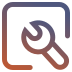
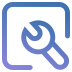
refactor(index): refactor nng index page

diff --git a/_includes/header-nng.html b/_includes/header-nng.html
@@ -16,19 +16,23 @@
                                 <div class="navbar-start"></div>
                                 <div class="navbar-end">
                                         <div class="navbar-item">
-                                                <a href="/man/">Documentation</a>
+                                                <a href="/man/">
+                                                        <i class="iconfont icon-doc"></i>
+                                                </a>
                                         </div>
                                         <div class="navbar-item">
-                                                <a href="https://discord.gg/Xnac6b9">Discord</a>
+                                                <a href="https://discord.gg/Xnac6b9">
+                                                        <i class="iconfont icon-discord"></i>
+                                                </a>
                                         </div>
                                         <div class="navbar-item is-hidden-desktop">
                                                 <a href="https://github.com/nanomsg/nng">
-                                                        github
+                                                        Github
                                                 </a>
                                         </div>
                                         <div class="navbar-item is-hidden-touch">
-                                                <a href="https://github.com/nanomsg/nng" class="btn-github">
-                                                        <i class="iconfont icon-github"></i> Star
+                                                <a href="https://github.com/nanomsg/nng">
+                                                        <i class="iconfont icon-github"></i>
                                                 </a>
                                         </div>
                                         <div class="navbar-item is-hidden-touch">

diff --git a/assets/css/index.css b/assets/css/index.css
@@ -12,11 +12,11 @@ a {
 }
 
 a:hover {
-  color: #BA5836;
+  color: #112D4E;
 }
 
 a.is-brown {
-  color: #BA5836;
+  color: #3F72AF;
 }
 
 .button {
@@ -37,7 +37,7 @@ a.is-brown {
   position: fixed;
   z-index: 40;
   width: 100%;
-  background: linear-gradient(135deg, #3A3654 0%, #515C85 100%);
+  background: linear-gradient(135deg, #112D4E 0%, #171D41 100%);
 }
 
 i.iconfont {
@@ -46,7 +46,7 @@ i.iconfont {
 }
 
 .navbar-burger {
-  color: #BA5836;
+  color: #3F72AF
 }
 
 /* navbar link  */
@@ -59,21 +59,13 @@ i.iconfont {
 }
 
 .nn-header-inner a:hover {
-  color: #BA5836;
-}
-
-.nn-header a.btn-github {
-  padding: 5px 28px;
-  display: inline-block;
-  border-radius: 4px;
-  border: 1px solid #DEDEDE;
-  color: #fff;
+  color: #3F72AF
 }
 
 .nn-header a.btn-download {
   padding: 5px 12px;
   display: inline-block;
-  background: #BA5836;
+  background: #3F72AF;
   border-radius: 4px;
   color: #fff;
 }
@@ -107,7 +99,7 @@ i.iconfont {
   width: 100%;
   padding: 175px 0 110px;
   text-align: center;
-  background: linear-gradient(135deg, #3A3654 0%, #515C85 100%);
+  background: linear-gradient(135deg, #112D4E 0%, #171D41 100%);
 }
 
 #nn-banner .nn-banner-title {
@@ -125,7 +117,7 @@ i.iconfont {
 
 #nn-banner .nn-btn-download {
   padding: 15px 44px;
-  background: #BA5836;
+  background: #3F72AF;
   border-radius: 4px;
   color: #fff;
 }
@@ -151,7 +143,7 @@ h2.nn-subtitle {
 #nn-intro .nn-intro-container {
   padding: 60px 110px;
   position: relative;
-  border: #BA5836 solid 4px;
+  border: #112D4E solid 4px;
   border-radius: 4px;
 }
 
@@ -215,7 +207,7 @@ h2.nn-subtitle {
 #nn-feat .feat-card .card-title {
   font-size: 16px;
   font-weight: bold;
-  color: #4F5880;
+  color: #112D4E;
   line-height: 24px;
 }
 
@@ -248,7 +240,7 @@ h2.nn-subtitle {
 /* nn-quick-start */
 #nn-quick-start {
   padding: 100px 0;
-  background: linear-gradient(135deg, #3A3654 0%, #515C85 100%);
+  background: linear-gradient(135deg, #112D4E 0%, #171D41 100%);
 }
 
 #nn-quick-start .container {

diff --git a/_includes/nn-content.html b/_includes/nn-content.html
@@ -128,20 +128,24 @@
       </h2>
       <div class="columns is-8-desktop is-variable">
         <div class="column is-6">
-          <!-- TODO: add a labels' link -->
           <p class="nn-quick-start-desc mb-3">
-            To build this project, you will need a C99 compatible compiler and <a class="is-brown" href="">CMake</a> version 3.13 or
+            To build this project, you will need a C99 compatible compiler and <a class="is-brown"
+              href="http://www.cmake.org/">CMake</a> version 3.13 or
             newer.
           </p>
-          <p class="nn-quick-start-desc mb-3">We recommend using the <a class="is-brown" href="">Ninja</a> build system (pass "-G Ninja"
+          <p class="nn-quick-start-desc mb-3">We recommend using the <a class="is-brown"
+              href="https://ninja-build.org/">Ninja</a> build system (pass "-G Ninja"
             to CMake) when
             you
             can. (And not just because
             Ninja sounds like "NNG" — it’s also blindingly fast and has made our lives as developers measurably better.)
           </p>
-          <p class="nn-quick-start-desc mb-3">If you want to build with <a class="is-brown" href="">TLS</a> support you will also need
+          <p class="nn-quick-start-desc mb-3">If you want to build with <a class="is-brown"
+              href="https://tls.mbed.org/">TLS</a> support you will also need
             mbedTLS. See
-            <a class="is-brown" href="">docs/BUILD_TLS.adoc</a> for details.</p>
+            <a class="is-brown"
+              href="https://github.com/nanomsg/nng/blob/master/docs/BUILD_TLS.adoc">docs/BUILD_TLS.adoc</a> for details.
+          </p>
         </div>
         <div class="column is-6">
           <p class="mb-4 has-text-white has-text-weight-medium">With a Linux or UNIX environment:</p>

diff --git a/_includes/footer-nng.html b/_includes/footer-nng.html
@@ -6,14 +6,12 @@
                         </a>
                 </div>
                 <div class="level-right">
-                        <!-- TODO: add email address and text-->
                         <a class="nn-footer-email has-text-weight-medium" href="mailto:garrett@damore.org">
                                 <img class="mr-1" src="/assets/image/footer-email.png" width="24">
                                 Email: Garrett D'Amore</a>
                 </div>
         </div>
         <div class="level mt-2">
-                <!-- TODO: add link -->
                 <div class="level-left">nanomsg™ and NNG™ are trademarks of Garrett D'Amore.</div>
                 <div class="level-right nn-footer-copyright">© 2020 Garrett D'Amore and contributors.</div>
         </div>

diff --git a/_includes/footer-manpage.html b/_includes/footer-manpage.html
@@ -4,7 +4,7 @@
                         <div>NNG Reference Manual {{ page.version }}</div>
                         <div style="margin-left: auto" class="nn-tan">
                                 <small>
-                                        &copy; 2020 <a href="mailto:garrett@damore.org">Staysail Systems,
+                                        &copy; 2021 <a href="mailto:garrett@damore.org">Staysail Systems,
                                                 Inc.</a>
                                         &copy; 2018 <a href="mailto:info@capitar.com">Capitar IT Group BV</a>
                                         <br />

diff --git a/_includes/header-manpage.html b/_includes/header-manpage.html
@@ -27,12 +27,12 @@
           </div>
           <div class="navbar-item is-hidden-desktop">
             <a href="https://github.com/nanomsg/nng">
-              github
+              Github
             </a>
           </div>
           <div class="navbar-item is-hidden-touch">
             <a href="https://github.com/nanomsg/nng" class="btn-github">
-              <i class="iconfont icon-github"></i> Star
+              <i class="iconfont icon-github"></i> Github
             </a>
           </div>
           <div class="navbar-item is-hidden-touch">

diff --git a/_includes/nn-footer.html b/_includes/nn-footer.html
@@ -1,7 +1,7 @@
 <footer class="nn-footer">
         <div class="nn-footer-inner nn-tan">
                 <small>
-                        &copy; 2020 <a href="mailto:garrett@damore.org">Garrett D'Amore</a> and
+                        &copy; 2021 <a href="mailto:garrett@damore.org">Garrett D'Amore</a> and
                         contributors.</a>
                         <br />
                         nanomsg&trade; and NNG&trade; are <a href="https://nanomsg.org/trademarks.html">trademarks</a>

diff --git a/_layouts/manpage_v2.html b/_layouts/manpage_v2.html
@@ -12,7 +12,7 @@
         <link href="https://fonts.googleapis.com/css?family=Inconsolata&display=swap" rel="stylesheet">
         <link href="https://cdnjs.cloudflare.com/ajax/libs/font-awesome/4.7.0/css/font-awesome.min.css"
                 rel="stylesheet">
-        <link rel="stylesheet" href="//at.alicdn.com/t/font_2668178_wdjo3p78tv.css">
+        <link rel="stylesheet" href="//at.alicdn.com/t/font_2668178_gvizekc2vj.css">
         <title>{{page.title}}</title>
 </head>
 

diff --git a/_layouts/nng.html b/_layouts/nng.html
@@ -12,7 +12,7 @@
         <link href="https://fonts.googleapis.com/css?family=Inconsolata&display=swap" rel="stylesheet">
         <link href="https://cdnjs.cloudflare.com/ajax/libs/font-awesome/4.7.0/css/font-awesome.min.css"
                 rel="stylesheet">
-        <link rel="stylesheet" href="//at.alicdn.com/t/font_2668178_wdjo3p78tv.css">
+        <link rel="stylesheet" href="//at.alicdn.com/t/font_2668178_gvizekc2vj.css">
         <title>{{page.title}}</title>
 </head>
 

diff --git a/_includes/footer.html b/_includes/footer.html
@@ -3,7 +3,7 @@
 <td style="color: #ba5836;" align="right">
 <em>
 <font size=2px>
-&copy; 2020 <a href="mailto:garrett@damore.org">Garrett D'Amore</a> and contributors.
+&copy; 2021 <a href="mailto:garrett@damore.org">Garrett D'Amore</a> and contributors.
 <br/>
 nanomsg&trade; and nng&trade; are <a href="http://nanomsg.org/trademarks.html">trademarks</a> of Garrett D'Amore.</font></em>
 </td>

diff --git a/assets/css/nn.css b/assets/css/nn.css
@@ -67,7 +67,6 @@ h6 {
 }
 
 h1 {
-        /* font-family: 'Open Sans'; */
         font-size: 32px;
 }
 
